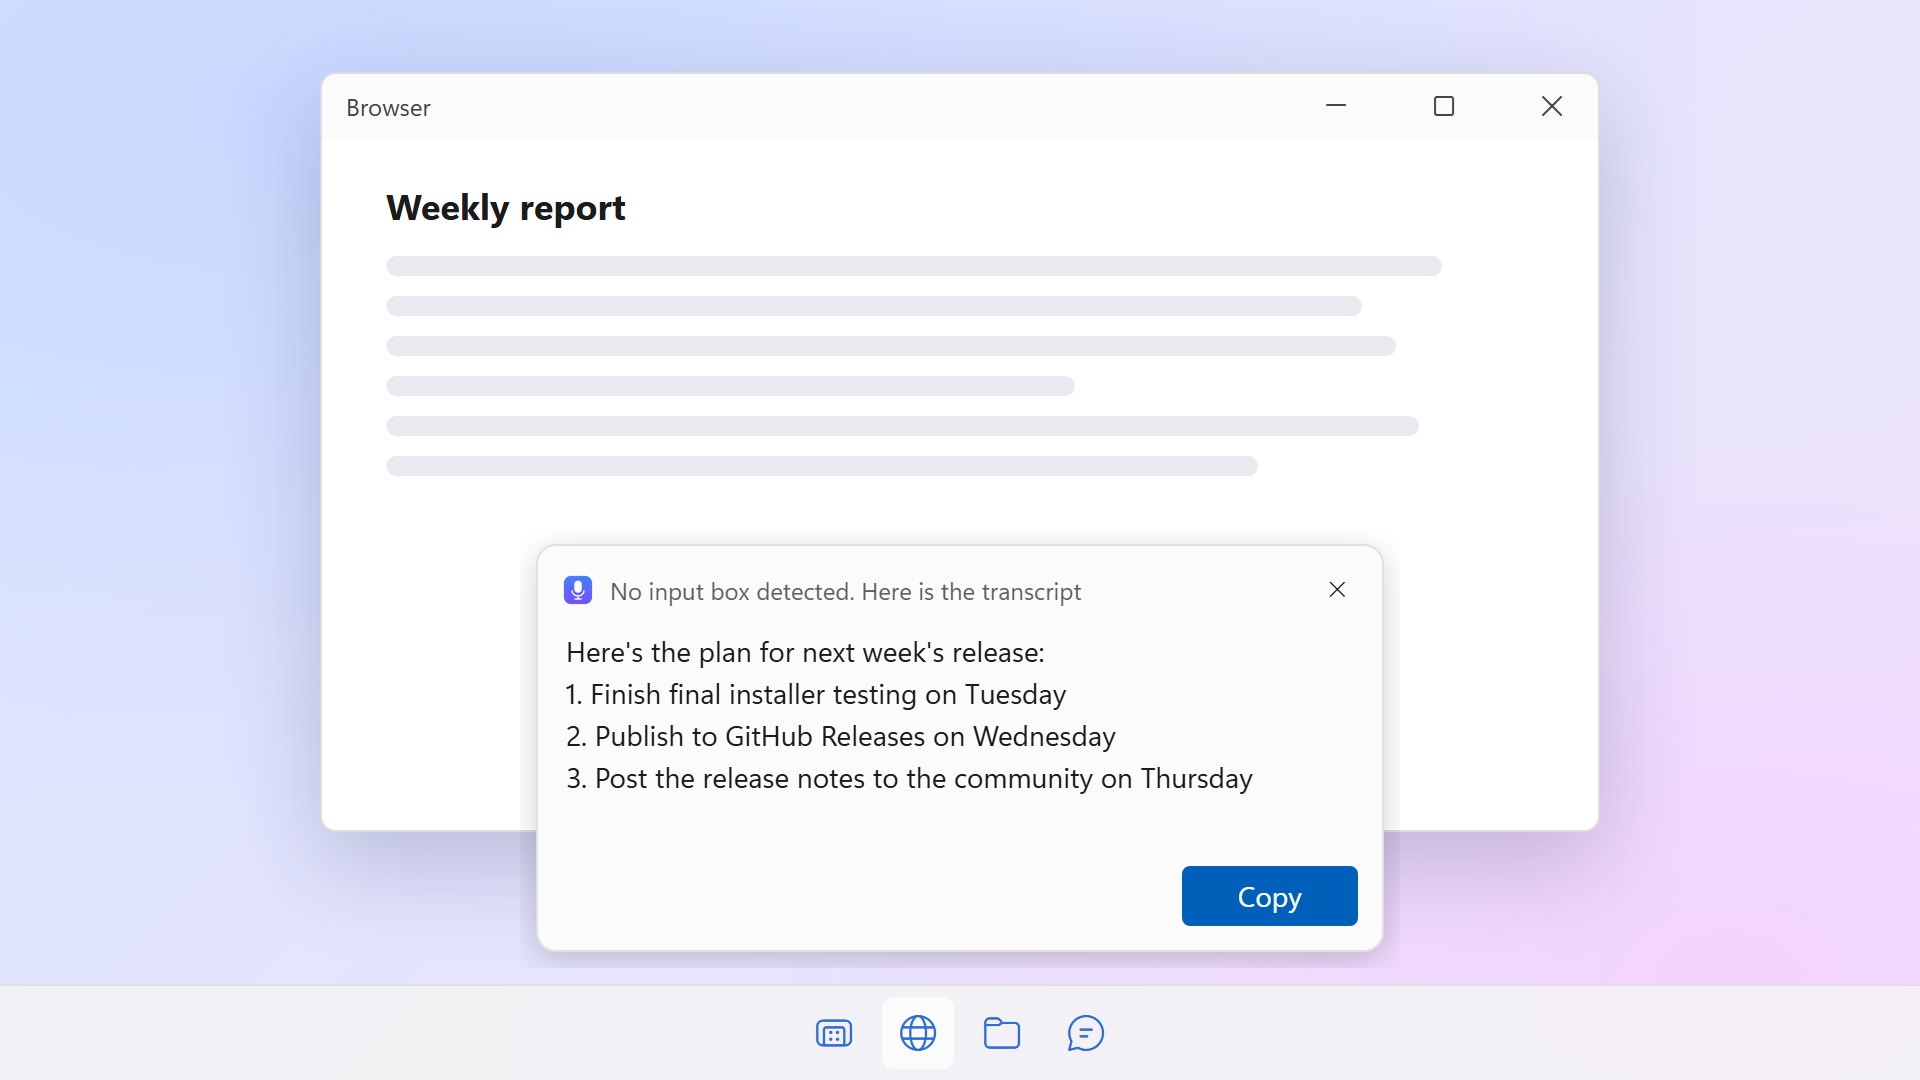
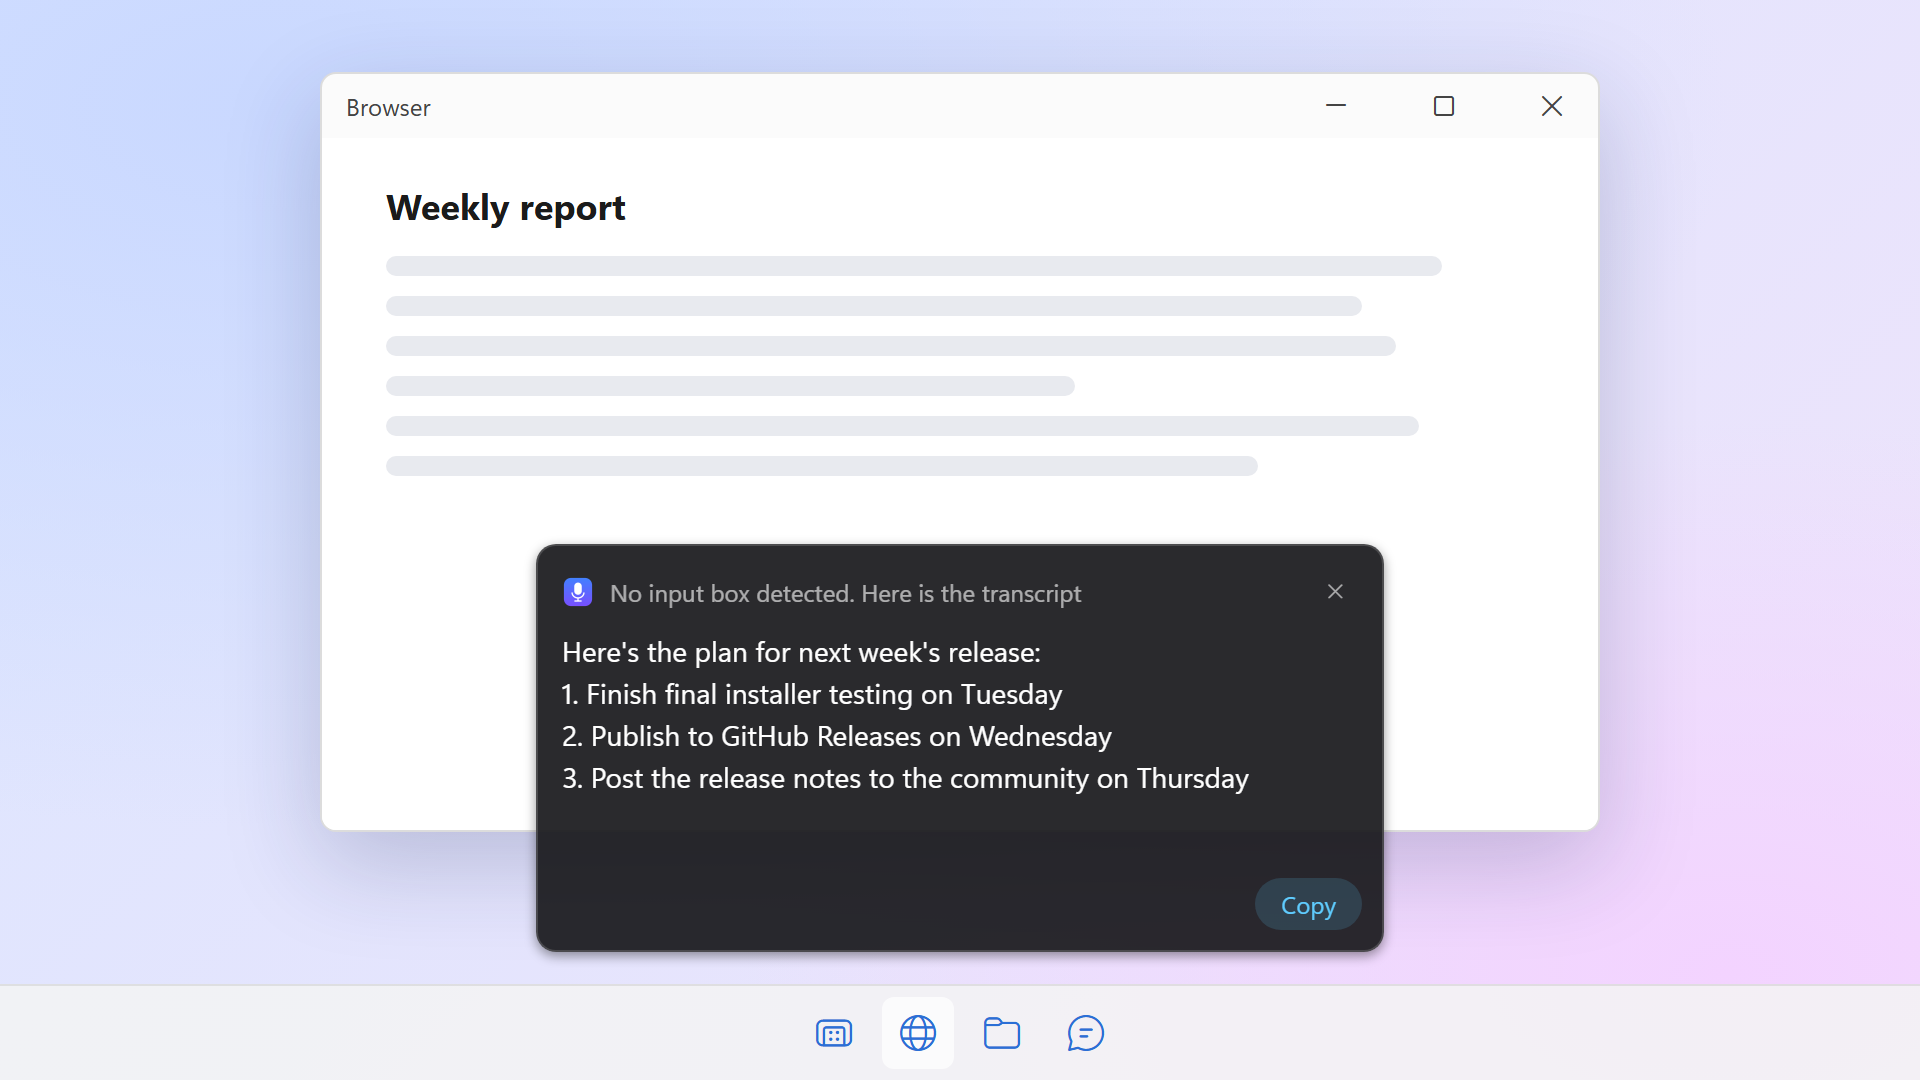
Keep popup shadows inside the window and align popup header and footer (#39)
- The shadow (16px blur, 4px offset) reached past the 8px margin around
  each popup window and was cut off in a hard edge. It is now
  0 2px 6px, which fades out inside the margin.
- The close button was still the old 28px square while the footer
  buttons became 26px pills, so the header sat closer to the top than
  the buttons to the bottom. Close buttons are now 26px round buttons
  like the footer buttons; the header and footer are both 10px from the
  card's top/bottom and right edges, and content is inset 12px.
- The learned-words toast, its undo button and the translate window's
  language box follow the same spacing and shapes.
- README: regenerate the result screenshots and demo animations. The
  demo's hand-drawn translate card uses the new style and the real icon,
  and the result scene's iframe no longer gets an opaque backdrop.

Changed region(s): [[0.2812, 0.4889, 0.7188, 0.8861]]

diff --git a/scripts/readme/scene-demo.html b/scripts/readme/scene-demo.html
@@ -53,17 +53,19 @@
     .lang-strip .ico { font: 14px "Segoe Fluent Icons", "Segoe MDL2 Assets"; color: #34d399; }
     .lang-strip .label { font-size: 12px; color: #c5c5c5; }
     .lang-strip .box { height: 28px; padding: 0 12px; line-height: 26px; border-radius: 14px; background: rgba(255,255,255,.08); border: 1px solid rgba(255,255,255,.18); }
-    .tcard { position: absolute; left: 50%; bottom: 60px; transform: translateX(-50%); width: 440px; display: flex; flex-direction: column; gap: 6px; padding: 10px 14px 12px; background: #fbfbfb; border: 1px solid #e0e0e0; border-radius: 10px; box-shadow: 0 4px 16px rgba(0,0,0,.18); }
-    .tcard .head { display: flex; align-items: center; gap: 8px; font-size: 12px; color: #5f5f5f; }
-    .tcard .head .x { margin-left: auto; font: 10px "Segoe Fluent Icons", "Segoe MDL2 Assets"; }
-    .tcard .flabel { font-size: 12px; color: #5f5f5f; }
-    .tcard .orig { padding: 6px 8px; border: 1px solid #d6d6d6; border-radius: 6px; background: #fff; }
-    .tcard .row { display: flex; align-items: center; gap: 8px; font-size: 12px; color: #5f5f5f; }
-    .tcard .row .box { padding: 2px 10px; border: 1px solid #d6d6d6; border-radius: 4px; background: #fff; color: #1b1b1b; font-size: 13px; }
-    .tcard .tr { color: #1b1b1b; }
+    /* 核对小窗：样子同 ui/result.css（半透明黑底；标题栏和按钮栏离卡片上下边、右边都是 10，内容左边距 12） */
+    .tcard { position: absolute; left: 50%; bottom: 60px; transform: translateX(-50%); width: 440px; display: flex; flex-direction: column; gap: 6px; padding: 0 10px 10px 12px; background: rgba(24,24,27,.92); color: #fff; border: 1px solid rgba(255,255,255,.16); border-radius: 10px; box-shadow: 0 2px 6px rgba(0,0,0,.4); }
+    .tcard .head { display: flex; align-items: center; gap: 8px; height: 26px; margin: 10px 0 0; font-size: 12px; color: rgba(255,255,255,.62); }
+    .tcard .head .logo { width: 16px; height: 16px; }
+    .tcard .head .x { margin-left: auto; width: 26px; height: 26px; line-height: 26px; text-align: center; font: 10px/26px "Segoe Fluent Icons", "Segoe MDL2 Assets"; }
+    .tcard .flabel { font-size: 12px; color: rgba(255,255,255,.62); padding-right: 2px; }
+    .tcard .orig { margin-right: 2px; padding: 6px 8px; border: 1px solid rgba(255,255,255,.14); border-radius: 6px; background: rgba(255,255,255,.08); }
+    .tcard .row { display: flex; align-items: center; gap: 8px; font-size: 12px; color: rgba(255,255,255,.62); }
+    .tcard .row .box { padding: 2px 10px; border: 1px solid rgba(255,255,255,.14); border-radius: 6px; background: rgba(255,255,255,.08); color: #fff; font-size: 13px; }
+    .tcard .tr { color: #fff; }
     .tcard .foot { display: flex; justify-content: flex-end; gap: 8px; margin-top: 2px; }
-    .tcard .btn { height: 28px; padding: 0 14px; line-height: 26px; border: 1px solid #d6d6d6; border-radius: 4px; background: #fff; font-size: 12px; }
-    .tcard .btn.accent { background: #005fb8; border-color: #005fb8; color: #fff; }
+    .tcard .btn { height: 26px; padding: 0 12px; line-height: 26px; border-radius: 13px; background: rgba(255,255,255,.08); font-size: 12px; }
+    .tcard .btn.accent { background: rgba(96,205,255,.16); color: #60cdff; }
     .speech #stext { white-space: nowrap; }
   </style>
 </head>
@@ -82,7 +84,7 @@
   <div class="keys" id="keys"><div class="kbd-row" id="kbd"></div><div class="hint" id="khint"></div></div>
   <div class="lang-strip" id="strip"><span class="ico">&#xE8C1;</span><span class="label" id="into1"></span><span class="box" id="target1"></span></div>
   <div class="tcard" id="tcard">
-    <div class="head"><span id="ttitle"></span><span class="x">&#xE711;</span></div>
+    <div class="head"><img class="logo" src="icon.png" alt=""><span id="ttitle"></span><span class="x">&#xE711;</span></div>
     <span class="flabel" id="olabel"></span>
     <div class="orig" id="heard"></div>
     <div class="row"><span id="into2"></span><span class="box" id="target2"></span></div>

diff --git a/ui/result.css b/ui/result.css
@@ -12,7 +12,8 @@
   --accent: #60cdff;
   --accent-soft: rgba(96, 205, 255, 0.16);
   --accent-soft-hover: rgba(96, 205, 255, 0.26);
-  --shadow: 0 4px 16px rgba(0, 0, 0, 0.45);
+  /* 阴影要整个落在窗口四周 8px 的留白里（模糊半径 + 偏移 ≤ 8），超出的部分会被窗口边界切成一道硬边 */
+  --shadow: 0 2px 6px rgba(0, 0, 0, 0.4);
 }
 
 /* 滚动条（scrollbar.css）默认跟系统主题走；弹窗底色总是黑的，固定用浅色滑块。html:root 比 :root 优先，不受加载顺序影响 */
@@ -33,8 +34,11 @@ html, body {
   user-select: none;
 }
 
-/* 窗口四周留出阴影空间 */
+/* 窗口四周留出阴影空间（--shadow 不能超出它） */
 body { padding: 8px; }
+
+/* 排版：卡片内容左边距 12；标题栏和底部按钮栏上下对称：关闭按钮和底部按钮一样高（26），
+   离卡片上 / 下边、右边都是 10，标题行和按钮行到卡片边的距离一致 */
 
 .card {
   display: flex;
@@ -51,7 +55,7 @@ header {
   display: flex;
   align-items: center;
   gap: 8px;
-  padding: 8px 8px 4px 12px;
+  padding: 10px 10px 4px 12px;
   color: var(--muted);
   font-size: 12px;
 }
@@ -60,7 +64,7 @@ header img { width: 16px; height: 16px; }
 
 #text {
   flex: 1;
-  padding: 2px 14px 6px;
+  padding: 2px 12px 6px;
   overflow-y: auto;
   white-space: pre-wrap;
   word-break: break-word;
@@ -76,7 +80,7 @@ header img { width: 16px; height: 16px; }
 footer {
   display: flex;
   justify-content: flex-end;
-  padding: 2px 10px 10px;
+  padding: 4px 10px 10px 12px;
 }
 
 button {
@@ -94,14 +98,19 @@ button:hover { background: var(--control-hover); }
 .btn.accent { background: var(--accent-soft); color: var(--accent); }
 .btn.accent:hover { background: var(--accent-soft-hover); }
 
+/* 关闭等图标按钮：和 .btn 同高的圆形，平时只有图标，悬停才有底色 */
 .icon-btn {
-  width: 28px;
-  height: 28px;
+  flex: none;
+  width: 26px;
+  height: 26px;
   padding: 0;
   border-color: transparent;
+  border-radius: 13px;
   background: transparent;
-  font: 11px "Segoe Fluent Icons", "Segoe MDL2 Assets";
+  color: var(--muted);
+  font: 10px "Segoe Fluent Icons", "Segoe MDL2 Assets";
 }
+.icon-btn:hover { color: var(--text); }
 
 /* 日文界面：汉字要用日文字体显示（中文字体里的汉字字形和日本的写法不同） */
 html:lang(ja), html:lang(ja) body { font-family: "Segoe UI Variable Text", "Segoe UI", "Yu Gothic UI", "Meiryo UI", system-ui, sans-serif; }

diff --git a/ui/learned.html b/ui/learned.html
@@ -8,7 +8,7 @@
   <link rel="stylesheet" href="scrollbar.css">
   <style>
     /* 屏幕右下角的小条：图标、学到的词条、撤销；鼠标移上去才出现关闭按钮 */
-    .row { flex: 1; min-height: 0; display: flex; align-items: center; gap: 10px; padding: 8px 6px 8px 12px; }
+    .row { flex: 1; min-height: 0; display: flex; align-items: center; gap: 10px; padding: 10px 10px 10px 12px; }
     .ico { flex: none; align-self: flex-start; margin-top: 2px; color: var(--accent); font: 16px/1 "Segoe Fluent Icons", "Segoe MDL2 Assets"; }
     .main { flex: 1; min-width: 0; }
     #title { color: var(--muted); font-size: 11px; line-height: 16px; }
@@ -17,10 +17,10 @@
     .item .from { flex: none; max-width: 45%; overflow: hidden; text-overflow: ellipsis; color: var(--muted); text-decoration: line-through; }
     .item .arrow { flex: none; color: var(--muted); font: 9px "Segoe Fluent Icons", "Segoe MDL2 Assets"; }
     .item .to { min-width: 0; overflow: hidden; text-overflow: ellipsis; font-weight: 600; }
-    #undo { flex: none; height: 26px; padding: 0 8px; border-color: transparent; background: transparent; color: var(--accent); font-size: 12px; }
+    #undo { flex: none; height: 26px; padding: 0 10px; border-color: transparent; border-radius: 13px; background: transparent; color: var(--accent); font-size: 12px; }
     #undo:hover { background: var(--control-hover); }
     #undo:disabled { color: var(--muted); }
-    #close { flex: none; width: 22px; height: 22px; align-self: flex-start; font-size: 9px; color: var(--muted); visibility: hidden; }
+    #close { align-self: flex-start; visibility: hidden; }
     .card:hover #close { visibility: visible; }
     .countdown { height: 2px; }
   </style>

diff --git a/ui/translate.html b/ui/translate.html
@@ -46,7 +46,7 @@
     #picker input:focus { border-color: #34d399; }
 
     /* 核对：原文（可修改）、目标语言、译文 */
-    .body { flex: 1; display: flex; flex-direction: column; gap: 6px; padding: 2px 14px 4px; min-height: 0; }
+    .body { flex: 1; display: flex; flex-direction: column; gap: 6px; padding: 2px 12px 4px; min-height: 0; }
     .field-label { font-size: 12px; color: var(--muted); }
     textarea {
       flex: 1.2;
@@ -72,7 +72,7 @@
       color: var(--text);
       background: var(--control);
       border: 1px solid var(--control-stroke);
-      border-radius: 4px;
+      border-radius: 6px;
       outline: none;
     }
     .lang-row input:focus { border-color: var(--accent); }

diff --git a/scripts/readme/scene-result.html b/scripts/readme/scene-result.html
@@ -7,6 +7,9 @@
     .page { flex: 1; padding: 20px 32px; background: #fff; }
     .page h3 { margin: 0 0 12px; font-size: 18px; }
     .line { height: 10px; margin: 10px 0; border-radius: 5px; background: #e8eaef; }
+    /* 弹窗页面是深色配色（result.css 的 color-scheme: dark）；iframe 的配色和里面的页面不一致时，
+       浏览器会给它垫一层不透明底色，半透明的卡片和阴影就看不出来了 */
+    iframe.result { color-scheme: dark; }
   </style>
 </head>
 <body>

diff --git a/src-tauri/src/learned_card.rs b/src-tauri/src/learned_card.rs
@@ -16,7 +16,7 @@ use tauri::{AppHandle, Emitter, Manager, WebviewUrl, WebviewWindowBuilder};
 pub const LABEL: &str = "learned";
 /// 逻辑尺寸（含四周 8 像素的阴影留白），按显示器缩放；高度随词条数增加，超过 MAX_ROWS 条时滚动
 const WIDTH: f64 = 304.0;
-const BASE_HEIGHT: f64 = 52.0;
+const BASE_HEIGHT: f64 = 56.0;
 const ROW_HEIGHT: f64 = 20.0;
 const MAX_ROWS: usize = 4;
 /// 离屏幕右下角的距离（加上阴影留白，卡片离边缘约 12 像素）
